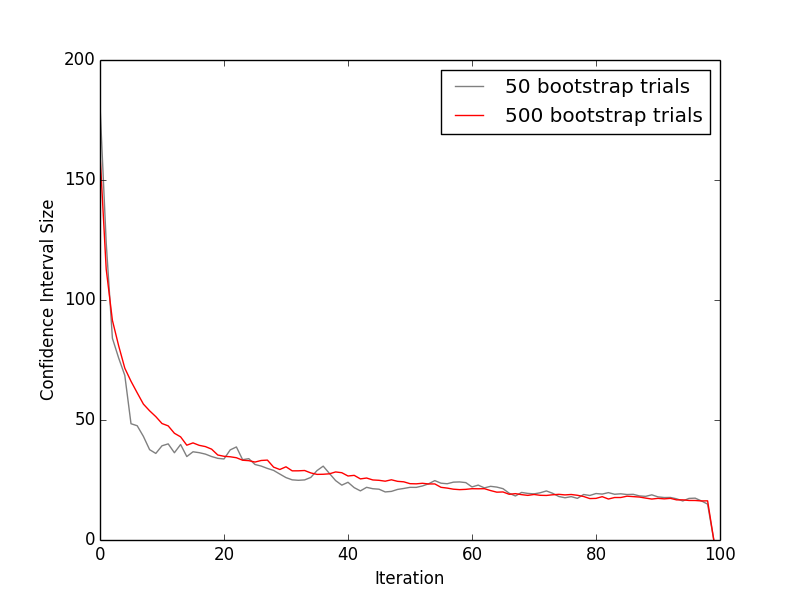
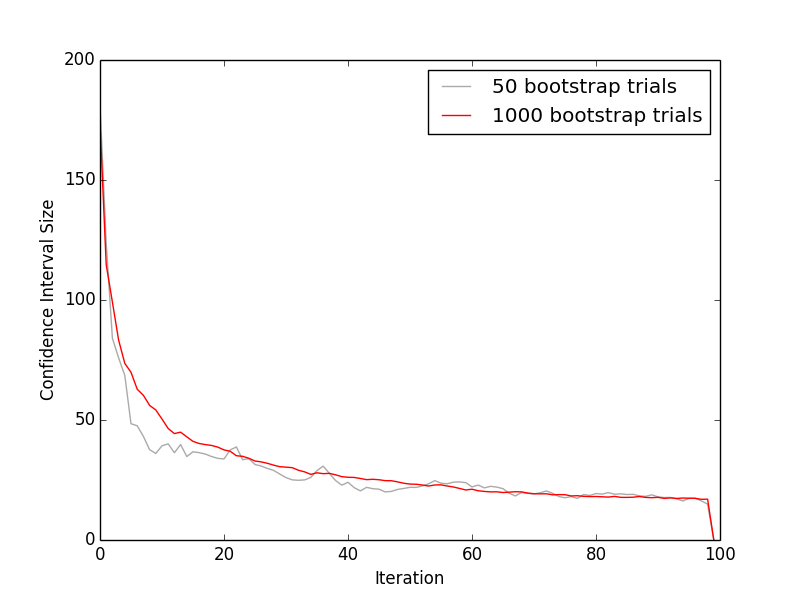
1000 bootstrap trials

diff --git a/plotting/plot_confidence.py b/plotting/plot_confidence.py
@@ -3,7 +3,7 @@
 import matplotlib.pyplot as plt
 
 append = "50bootstrap"
-append500 = "500bootstrap"
+append1000 = "1000bootstrap"
 
 def read_dat(name):
   iters_, values_, lower_, upper_ = [], [], [], []
@@ -17,7 +17,7 @@ def read_dat(name):
   return (iters_, values_, lower_, upper_)
 
 (iters, values, lower, upper) = read_dat(append)
-(iters500, values500, lower500, upper500) = read_dat(append500)
+(iters1000, values1000, lower1000, upper1000) = read_dat(append1000)
 
 true_value = values[-1]
 
@@ -35,12 +35,12 @@ plt.savefig("output_" + append + ".png")
 
 # Plot interval size
 interval_size = [upper[i] - lower[i] for i in range(len(lower))]
-interval_size500 = [upper500[i] - lower500[i] for i in range(len(lower500))]
+interval_size1000 = [upper1000[i] - lower1000[i] for i in range(len(lower1000))]
 
 fig = plt.figure()
 ax = fig.add_subplot(1, 1, 1)
-ax.plot(iters, interval_size, "-", label="50 bootstrap trials", color="gray")
-ax.plot(iters500, interval_size500, "-", label="500 bootstrap trials", color="red")
+ax.plot(iters, interval_size, "-", label="50 bootstrap trials", color="#AAAAAA")
+ax.plot(iters1000, interval_size1000, "-", label="1000 bootstrap trials", color="red")
 ax.set_xlabel("Iteration")
 ax.set_ylabel("Confidence Interval Size")
 ax.legend()
